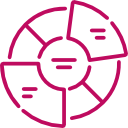
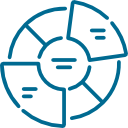
iconlar değiştirildi
iconların renkleri değiştirildi

diff --git a/index.html b/index.html
@@ -95,7 +95,7 @@ height="0" width="0" style="display:none;visibility:hidden"></iframe></noscript>
     <!-- end header -->
 
     <!-- slider -->
-    <div class="slider page-image"  style="background-image: url(assets/img/slide-2.png)">
+    <div class="slider page-image"  style="background-image: url(assets/img/slide-1.jpg)">
         <div class="container" >
             <div class="sliderLeft">
                 <div class="u-table">
